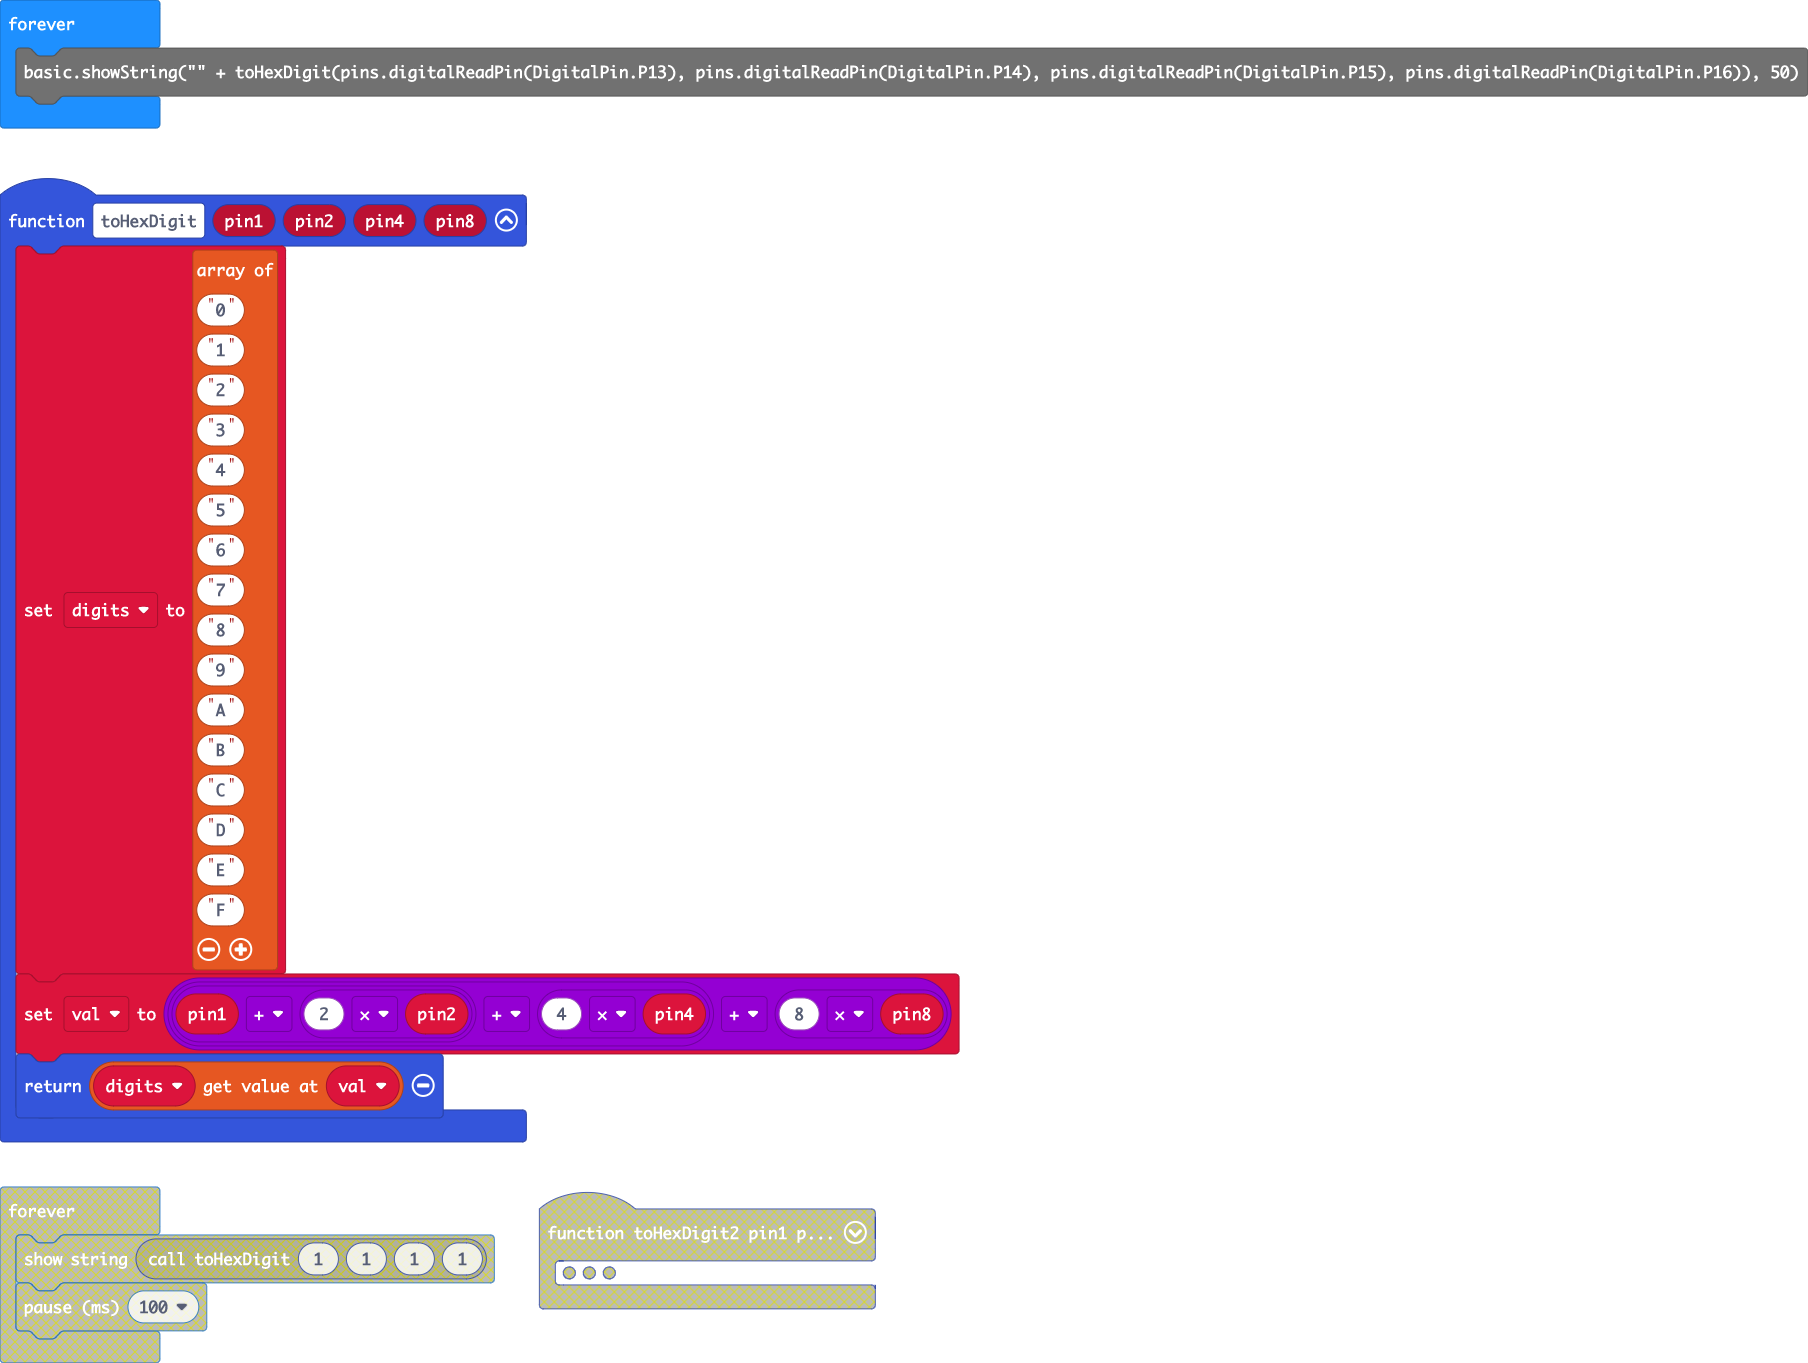
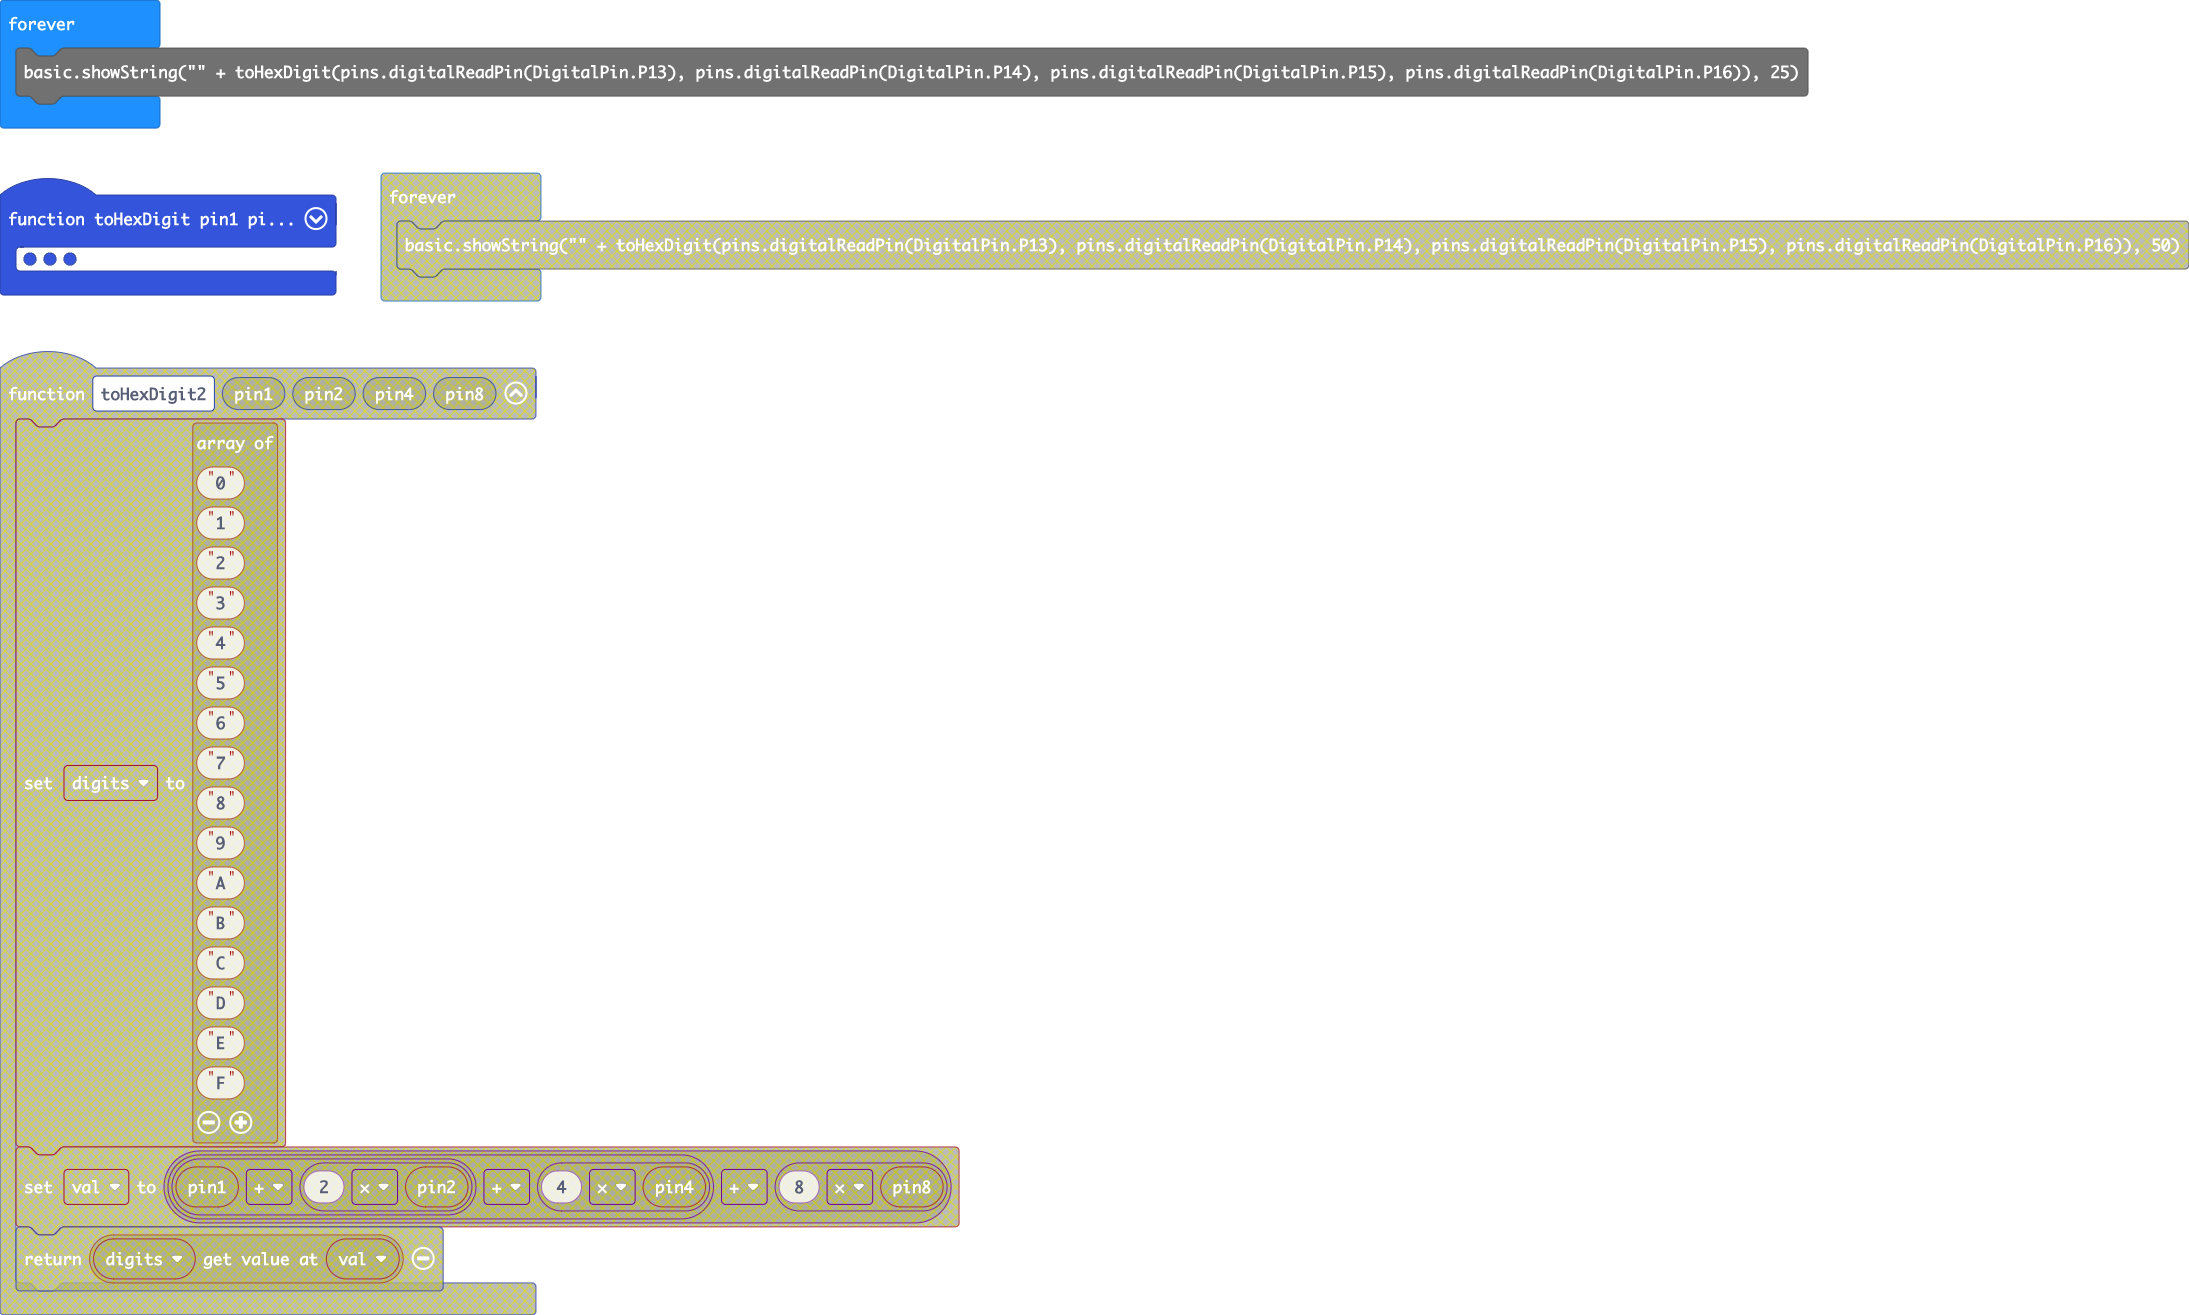
improve refresh rate more

Changed region(s): [[0.0, 0.0, 1.0, 1.0]]

diff --git a/main.ts b/main.ts
@@ -28,5 +28,5 @@ pins.setPull(DigitalPin.P15, PinPullMode.PullDown)
 pins.setPull(DigitalPin.P16, PinPullMode.PullDown)
 basic.showIcon(IconNames.Yes)
 basic.forever(function () {
-    basic.showString("" + toHexDigit(pins.digitalReadPin(DigitalPin.P13), pins.digitalReadPin(DigitalPin.P14), pins.digitalReadPin(DigitalPin.P15), pins.digitalReadPin(DigitalPin.P16)), 50)
+    basic.showString("" + toHexDigit(pins.digitalReadPin(DigitalPin.P13), pins.digitalReadPin(DigitalPin.P14), pins.digitalReadPin(DigitalPin.P15), pins.digitalReadPin(DigitalPin.P16)), 25)
 })

diff --git a/main.py b/main.py
@@ -30,5 +30,5 @@ def on_forever():
     basic.show_string("" + (toHexDigit(pins.digital_read_pin(DigitalPin.P13),
         pins.digital_read_pin(DigitalPin.P14),
         pins.digital_read_pin(DigitalPin.P15),
-        pins.digital_read_pin(DigitalPin.P16))), 50)
+        pins.digital_read_pin(DigitalPin.P16))), 25)
 basic.forever(on_forever)
